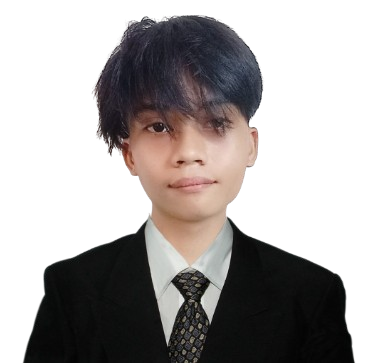
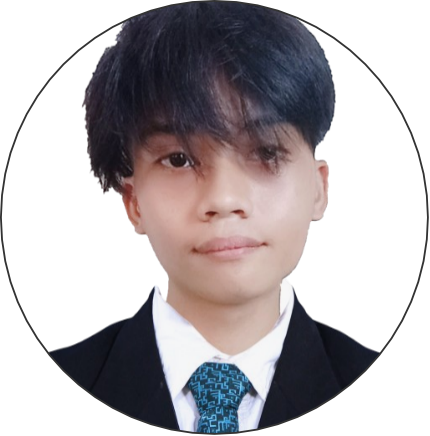
dasdsa

diff --git a/public/assets/css/aboutus.css b/public/assets/css/aboutus.css
@@ -85,7 +85,7 @@ body{
   padding-top: 80px;
   overflow-x: hidden;
   width: 100%;
-  height: 100vh;
+  min-height: 100vh;
   background: no-repeat;
   background-size: cover;
   background-attachment: fixed;
@@ -132,9 +132,8 @@ margin-top: 4rem;
 }
 
 .team-content img{
-width: 100%;
-height: auto;
-border-radius: 15px;
+width: 200px;
+height: 200px;
 margin-bottom: 15px;
 }
 .center h1{

diff --git a/resources/views/frontend/about.blade.php b/resources/views/frontend/about.blade.php
@@ -3,7 +3,7 @@
 <head>
     <meta charset="UTF-8">
     <meta name="viewport" content="width=device-width, initial-scale=1.0">
-    <title>Learn2Code | Our Team</title>
+    <title>Our Team | Learn2Code</title>
 
     <link rel="stylesheet" href="assets/css/aboutus.css">
     <link rel="stylesheet" href="https://unpkg.com/boxicons@latest/css/boxicons.min.css">
@@ -35,13 +35,249 @@
         </div>
 		<div id="div1" class="team-content">
 			<div class="box">
-				<img src="assets/images/avatar.png">
-				<h2>Ricardo Macayan</h2>
-				<p>Artist</p>
+				<img src="assets/images/aboutpic/adrao.png">
+				<h2>Adrao, Abigael</h2>
+				<p>UI/UX Designer</p>
 				<div class="icons">
-					<a href="#"><i class="bx bxl-facebook"></i></a>
-					<a href="#"><i class="bx bxl-instagram-alt"></i></a>
-					<a href="#"><i class="bx bxl-twitter"></i></a>
+					<a href="#"><i class='bx bxs-rocket'></i></a>
+				</div>
+			</div>
+
+			<div class="box">
+				<img src="assets/images/aboutpic/amar.png">
+				<h2>Amar, Kimberly</h2>
+				<p>UI/UX Designer</p>
+				<div class="icons">
+					<a href="#"><i class='bx bxs-rocket'></i></a>
+				</div>
+			</div>
+
+			<div class="box">
+				<img src="assets/images/aboutpic/balubal.png">
+				<h2>Balubal, Johnny</h2>
+				<p>Documentator</p>
+				<div class="icons">
+					<a href="https://www.facebook.com/johnnyfrey20" target="_blank"><i class="bx bxl-facebook"></i></a>					
+				</div>
+			</div>
+
+			<div class="box">
+				<img src="assets/images/aboutpic/borromeo.png">
+				<h2>Borromeo, David</h2>
+				<p>Front-end Developer</p>
+				<div class="icons">
+					<a href="https://www.facebook.com/dvdmtthw11" target="_blank"><i class="bx bxl-facebook"></i></a>					
+				</div>
+			</div>
+
+			<div class="box">
+				<img src="assets/images/aboutpic/diamante.png">
+				<h2>Diamante, Russell</h2>
+				<p>Prototype Designer</p>
+				<div class="icons">
+					<a href="#"><i class='bx bxs-rocket'></i></a>				
+				</div>
+			</div>
+
+			<div class="box">
+				<img src="assets/images/aboutpic/famor.png">
+				<h2>Famor, Jehu</h2>
+				<p>Dev Team Leader</p>
+				<div class="icons">
+					<a href="https://www.facebook.com/Isaiah.Jehu?mibextid=ZbWKwL" target="_blank"><i class="bx bxl-facebook"></i></a>					
+				</div>
+			</div>
+
+			<div class="box">
+				<img src="assets/images/aboutpic/francisco.png">
+				<h2>Francisco, Dave</h2>
+				<p>Documentator</p>
+				<div class="icons">
+					<a href="https://www.facebook.com/kristiandgf" target="_blank"><i class="bx bxl-facebook"></i></a>					
+				</div>
+			</div>
+
+			<div class="box">
+				<img src="assets/images/aboutpic/isangga.png">
+				<h2>Isangga, Gian</h2>
+				<p>Database Designer</p>
+				<div class="icons">
+					<a href="https://www.facebook.com/kristiandgf" target="_blank"><i class="bx bxl-facebook"></i></a>					
+				</div>
+			</div>
+
+			<div class="box">
+				<img src="assets/images/aboutpic/alquicer.png">
+				<h2>Alquicer, Jelisa</h2>
+				<p>Documentator</p>
+				<div class="icons">
+				<a href="#"><i class='bx bxs-rocket'></i></a>
+				</div>
+			</div>
+
+			<div class="box">
+				<img src="assets/images/aboutpic/alpajora.png">
+				<h2>Alpajora, Jenny</h2>
+				<p>UI/UX Designer</p>
+				<div class="icons">
+				<a href="#"><i class='bx bxs-rocket'></i></a>
+				</div>
+			</div>
+
+			<div class="box">
+				<img src="assets/images/aboutpic/larisma.png">
+				<h2>Larisma, Robert</h2>
+				<p>UI/UX Designer</p>
+				<div class="icons">
+				<a href="#"><i class='bx bxs-rocket'></i></a>
+				</div>
+			</div>
+
+			<div class="box">
+				<img src="assets/images/aboutpic/lucero.png">
+				<h2>Alpajora, Jenny</h2>
+				<p>UI/UX Designer</p>
+				<div class="icons">
+				<a href="#"><i class='bx bxs-rocket'></i></a>
+				</div>
+			</div>
+
+			<div class="box">
+				<img src="assets/images/aboutpic/macayan.png">
+				<h2>Ricardo Macayan</h2>
+				<p>Project Manager</p>
+				<div class="icons">
+					<a href="#"><i class='bx bxs-rocket'></i></a>
+				</div>
+			</div>
+
+			<div class="box">
+				<img src="assets/images/aboutpic/magbag.png">
+				<h2>Alpajora, Jenny</h2>
+				<p>UI/UX Designer</p>
+				<div class="icons">
+				<a href="#"><i class='bx bxs-rocket'></i></a>
+				</div>
+			</div>
+
+			<div class="box">
+				<img src="assets/images/aboutpic/makinano.png">
+				<h2>Alpajora, Jenny</h2>
+				<p>UI/UX Designer</p>
+				<div class="icons">
+				<a href="#"><i class='bx bxs-rocket'></i></a>
+				</div>
+			</div>
+
+			<div class="box">
+				<img src="assets/images/aboutpic/mallari.png">
+				<h2>Alpajora, Jenny</h2>
+				<p>UI/UX Designer</p>
+				<div class="icons">
+				<a href="#"><i class='bx bxs-rocket'></i></a>
+				</div>
+			</div>
+
+			<div class="box">
+				<img src="assets/images/aboutpic/modestano.png">
+				<h2>Alpajora, Jenny</h2>
+				<p>UI/UX Designer</p>
+				<div class="icons">
+				<a href="#"><i class='bx bxs-rocket'></i></a>
+				</div>
+			</div>
+
+			<div class="box">
+				<img src="assets/images/aboutpic/mumar.png">
+				<h2>Alpajora, Jenny</h2>
+				<p>UI/UX Designer</p>
+				<div class="icons">
+				<a href="#"><i class='bx bxs-rocket'></i></a>
+				</div>
+			</div>
+
+			<div class="box">
+				<img src="assets/images/aboutpic/obrero.png">
+				<h2>Alpajora, Jenny</h2>
+				<p>UI/UX Designer</p>
+				<div class="icons">
+				<a href="#"><i class='bx bxs-rocket'></i></a>
+				</div>
+			</div>
+
+			<div class="box">
+				<img src="assets/images/aboutpic/principe.png">
+				<h2>Alpajora, Jenny</h2>
+				<p>UI/UX Designer</p>
+				<div class="icons">
+				<a href="#"><i class='bx bxs-rocket'></i></a>
+				</div>
+			</div>
+
+			<div class="box">
+				<img src="assets/images/aboutpic/remandaban.png">
+				<h2>Alpajora, Jenny</h2>
+				<p>UI/UX Designer</p>
+				<div class="icons">
+				<a href="#"><i class='bx bxs-rocket'></i></a>
+				</div>
+			</div>
+
+			<div class="box">
+				<img src="assets/images/aboutpic/retiza.png">
+				<h2>Alpajora, Jenny</h2>
+				<p>UI/UX Designer</p>
+				<div class="icons">
+				<a href="#"><i class='bx bxs-rocket'></i></a>
+				</div>
+			</div>
+
+			<div class="box">
+				<img src="assets/images/aboutpic/serandon.png">
+				<h2>Alpajora, Jenny</h2>
+				<p>UI/UX Designer</p>
+				<div class="icons">
+				<a href="#"><i class='bx bxs-rocket'></i></a>
+				</div>
+			</div>
+
+			<div class="box">
+				<img src="assets/images/aboutpic/tubeo.png">
+				<h2>Alpajora, Jenny</h2>
+				<p>UI/UX Designer</p>
+				<div class="icons">
+				<a href="#"><i class='bx bxs-rocket'></i></a>
+				</div>
+			</div>
+
+			<div class="box">
+				<img src="assets/images/aboutpic/uy.png">
+				<h2>Alpajora, Jenny</h2>
+				<p>UI/UX Designer</p>
+				<div class="icons">
+				<a href="#"><i class='bx bxs-rocket'></i></a>
+				</div>
+			</div>
+
+			
+		</div>
+
+        <div id="div2" class="team-content">
+		<div class="box">
+				<img src="assets/images/aboutpic/macayan.png">
+				<h2>Ricardo Macayan</h2>
+				<p>Project Manager</p>
+				<div class="icons">
+					<a href="#"><i class='bx bxs-rocket'></i></a>
+				</div>
+			</div>
+
+			<div class="box">
+				<img src="assets/images/aboutpic/famor.png">
+				<h2>Famor, Jehu</h2>
+				<p>Dev Team Leader</p>
+				<div class="icons">
+					<a href="https://www.facebook.com/Isaiah.Jehu?mibextid=ZbWKwL" target="_blank"><i class="bx bxl-facebook"></i></a>					
 				</div>
 			</div>
 
@@ -79,8 +315,7 @@
 			</div>
 		</div>
 
-
-        <div id="div2" class="team-content">
+		<div id="div3" class="team-content">
 			<div class="box">
             <img src="assets/images/avatar.png">
 				<h2>Steph Jobs</h2>

diff --git a/resources/views/frontend/startmenu.blade.php b/resources/views/frontend/startmenu.blade.php
@@ -51,13 +51,13 @@
         <h2>Main menu</h2>
       </div> 
      <div class="content-section">
-          <a href="Playground" >
+          <a href="/Playground" >
             <img src="assets/images/playground-btn.svg" alt="Playground" id="playground">
           </a>
-          <a href="#"> 
+          <a href="/leaderboard"> 
             <img src="assets/images/leaderboard-btn.svg" alt="Leaderboard" id="leaderboard">
           </a>
-          <a href="{{ route('moduleLanguage') }}">
+          <a href="module/moduleLanguage">
             <img src="assets/images/module-btn.svg" alt="Modules" id="module">
           </a>
           <a href="/forum"> 

diff --git a/resources/views/frontend/register.blade.php b/resources/views/frontend/register.blade.php
@@ -4,7 +4,7 @@
 
     <meta charset="UTF-8">
     <meta name="viewport" content="width=device-width, initial-scale=1.0">
-    <title>Sign Up</title>
+    <title>Sign Up | Learn2code</title>
     <link rel="shortcut icon" type="x-icon" href="assets/images/Logo.jpg">
     <link rel="stylesheet" href="assets/css/login.css">
     <link rel="stylesheet" href="https://unpkg.com/boxicons@latest/css/boxicons.min.css">
